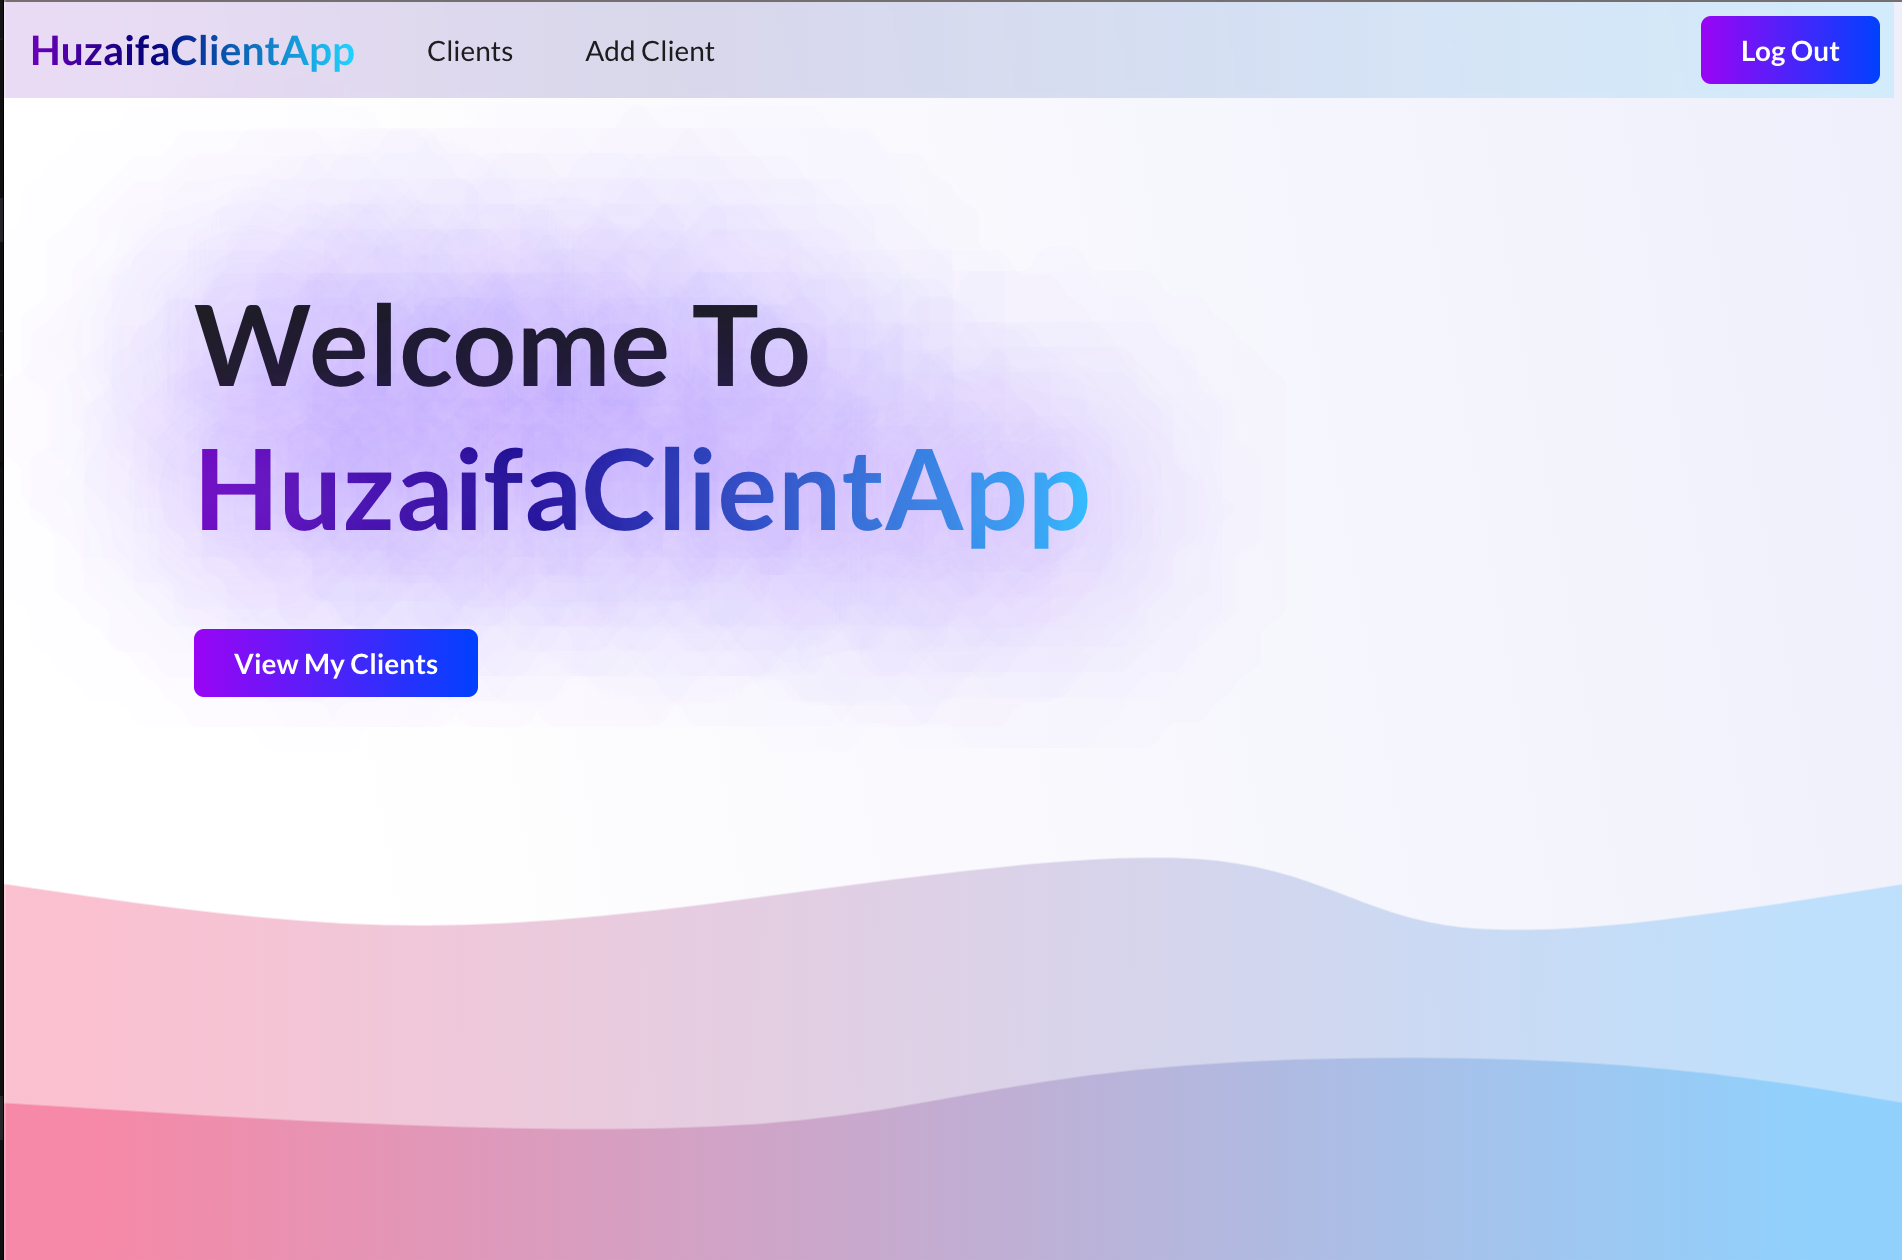
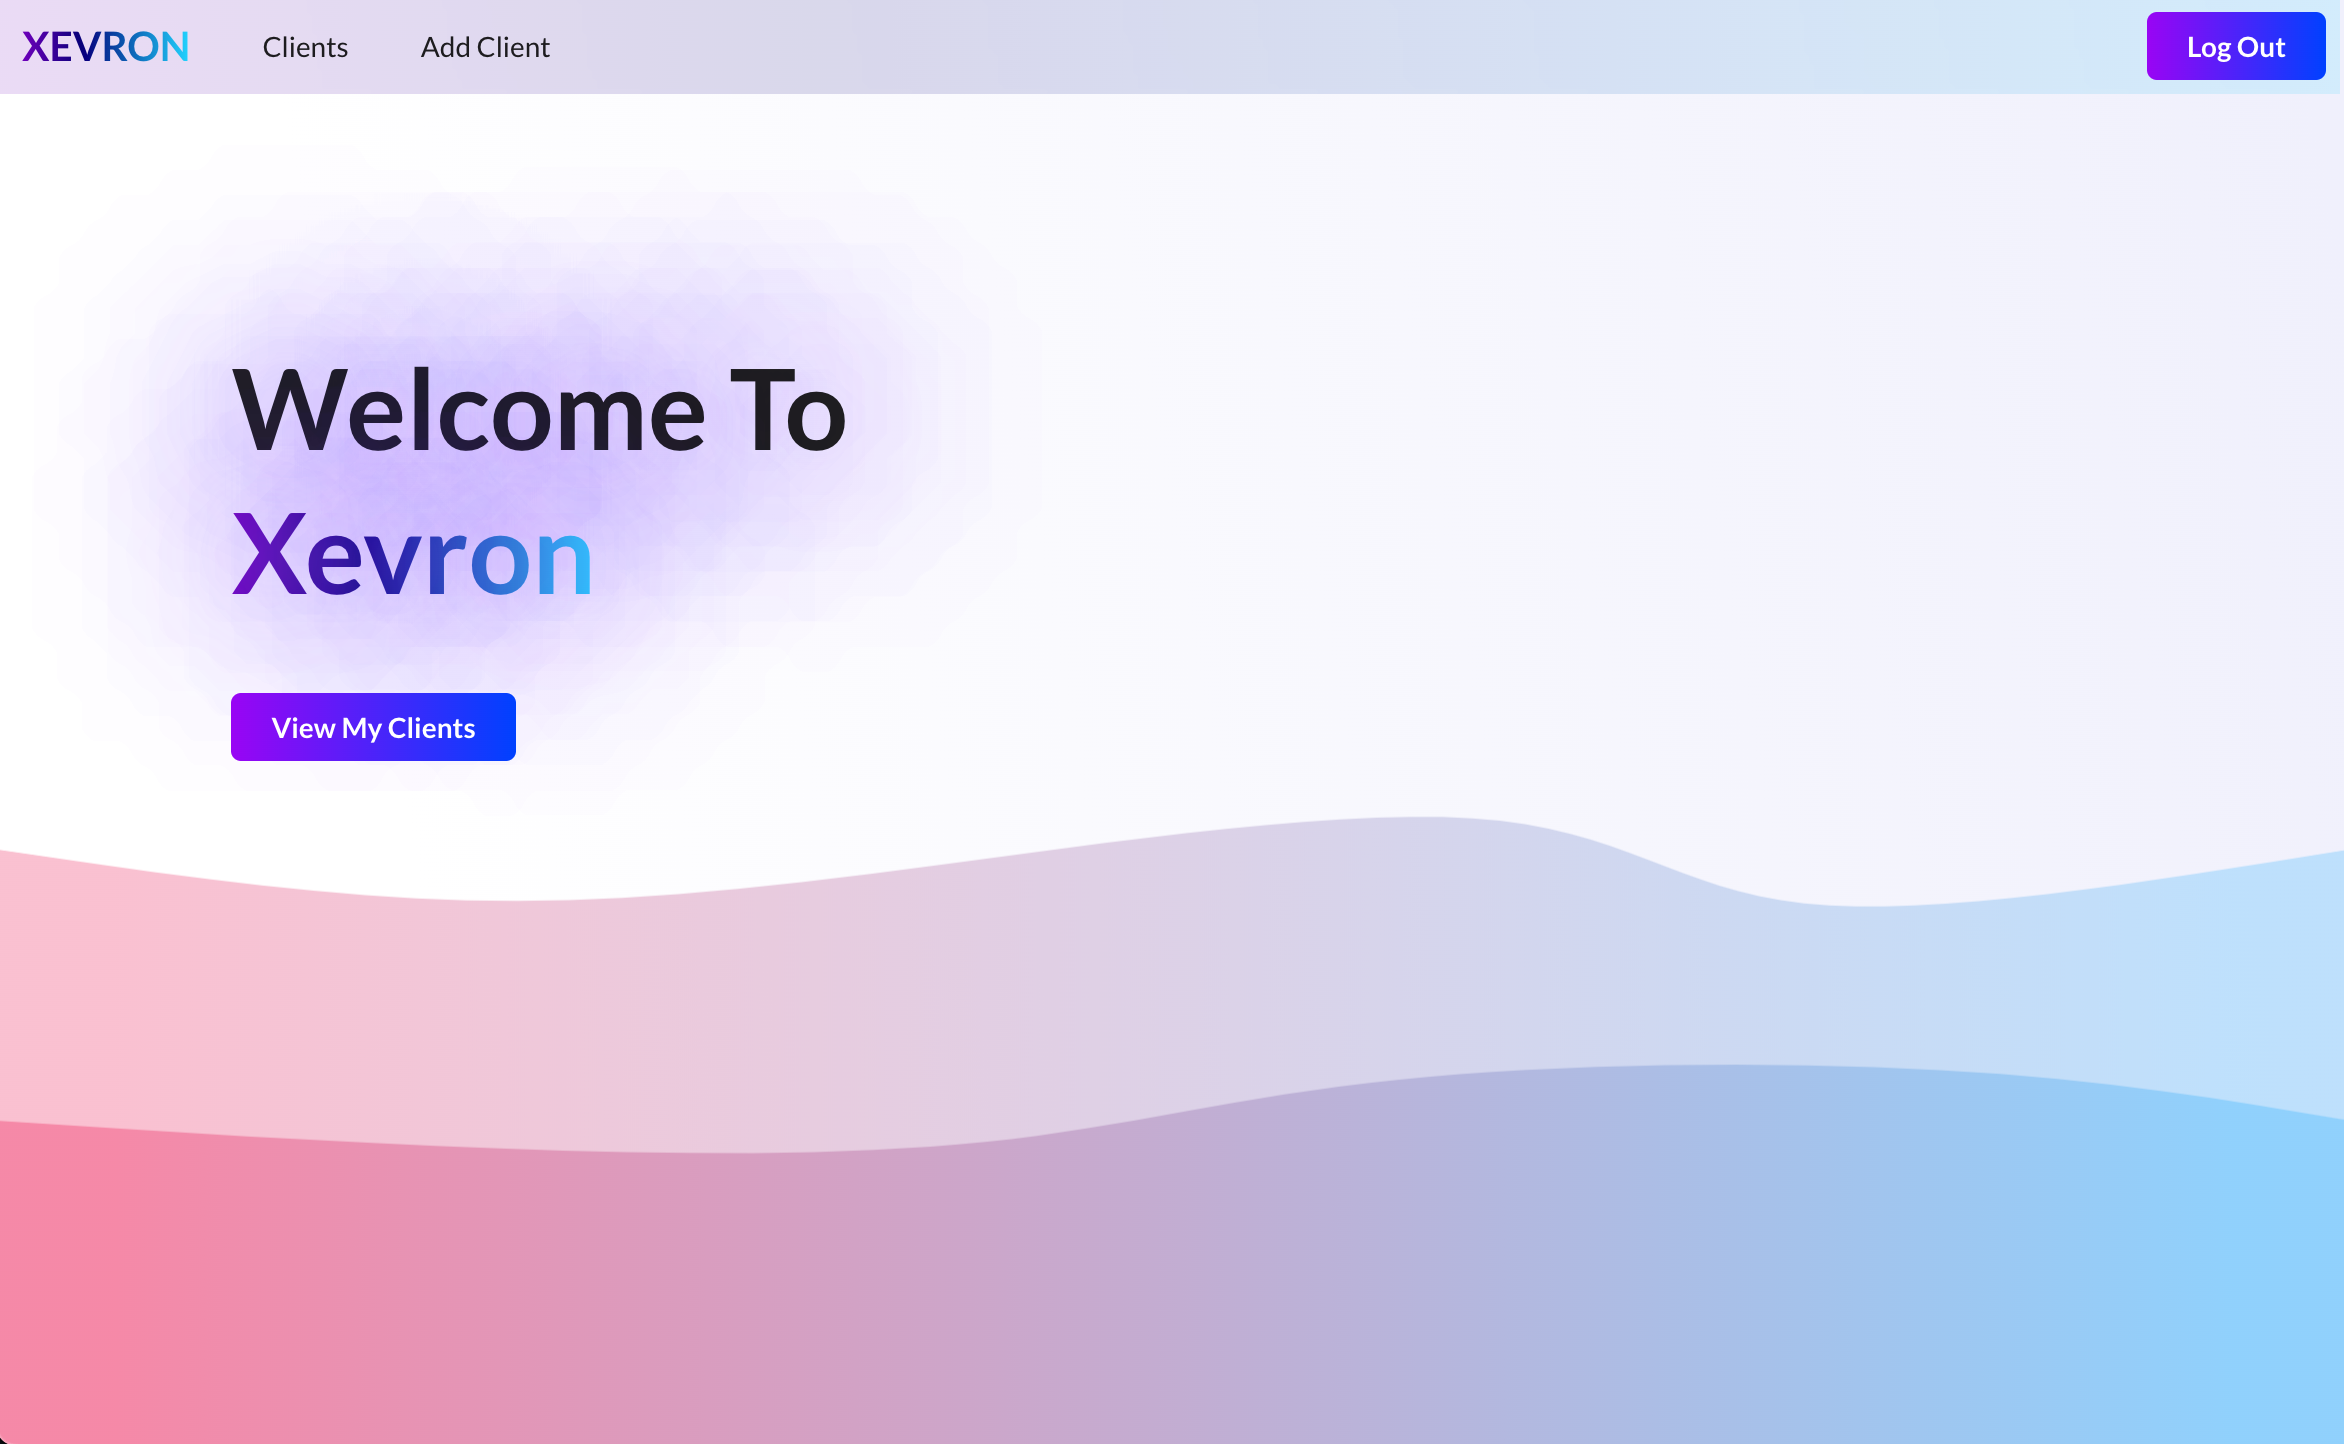
Minor- Xev name change

diff --git a/index.html b/index.html
@@ -65,10 +65,10 @@
 
 					
 					<section>
-						<a href="#" class="image"><img src="images/AwsAppLogo.png" alt="" data-position="center center" /></a>
+						<a href="#" class="image"><img src="images/xevLogo.png" alt="" data-position="center center" /></a>
 						<div class="content">
 							<div class="inner">
-								<h2>HuzaifaClientApp</h2>
+								<h2>Xevron - A Client Management App</h2>
 								<p>This is a comprehensive full-stack AWS application, designed to provide a seamless user experience. Upon signing in or registering, 
 									users are welcomed by a beautiful homepage, offering easy access to their client portfolio. For new client additions, a sleek and efficiently designed 
 									form enables rapid data entry, directly updating a cloud-based database. Following submission, users are redirected to a dedicated client management page, 
@@ -89,7 +89,7 @@
 							<div class="inner">
 								<h2>VirtueGPT</h2>
 								<p>Introducing VirtueGPT, an amazing AI-powered Faith-Based companion crafted to offer deep spiritual guidance and unwavering support to users facing 
-								   life's ups and downs. I led the charge in creating VirtueGPT, using the latest tech to make it an engaging and life-changing experience, with an 
+								   life's ups and downs. I created VirtueGPT, using the latest tech to make it an engaging and life-changing experience, with an 
 								   average of 145+ users benefiting from it daily. </p>
 								<ul class="actions">
 									<li><a href="virtuegpt.html" class="button">Project Details</a></li>
